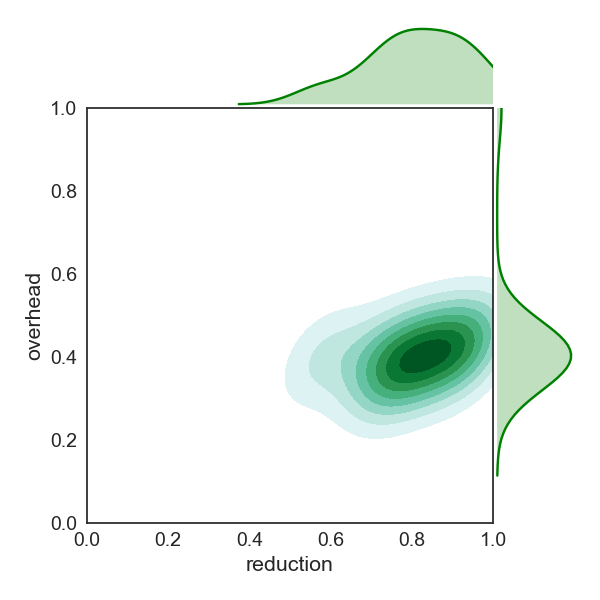
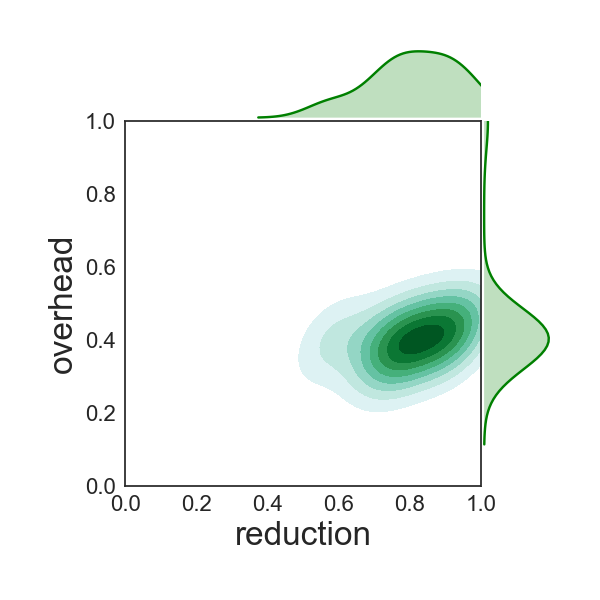
one is a bad idea

Changed region(s): [[0.03, 0.03, 0.96, 0.96], [0.87, 0.51, 0.9, 0.54]]

diff --git a/experiments/performance/generate_sp.py b/experiments/performance/generate_sp.py
@@ -64,10 +64,13 @@ if __name__ == '__main__':
     data = get_frame(raw_data, args.topdown, args.kbo)
 
     # now we worry about graphing
-    sns.set(style="white", font_scale=1.4)
+    rc={'font.size': 32, 'axes.labelsize': 24, 'legend.fontsize': 32.0, 'axes.titlesize': 32, 'xtick.labelsize': 16, 'ytick.labelsize': 16}
+    sns.set(style="white", rc=rc)
     # sns.set_color_codes("pastel")
     g = sns.JointGrid(x="reduction", y="overhead", data=data, xlim=(0,1), ylim=(0,1), space=0)
     g = g.plot_joint(sns.kdeplot, shade=True, shade_lowest=False,cmap="BuGn")
     g = g.plot_marginals(sns.kdeplot, shade=True, color="g")
+    g.ax_joint.set_xticks([0,0.2, 0.4, 0.6, 0.8, 1])
+    g.ax_joint.set_yticks([0,0.2, 0.4, 0.6, 0.8, 1])
 
     sns.plt.savefig(args.output)
